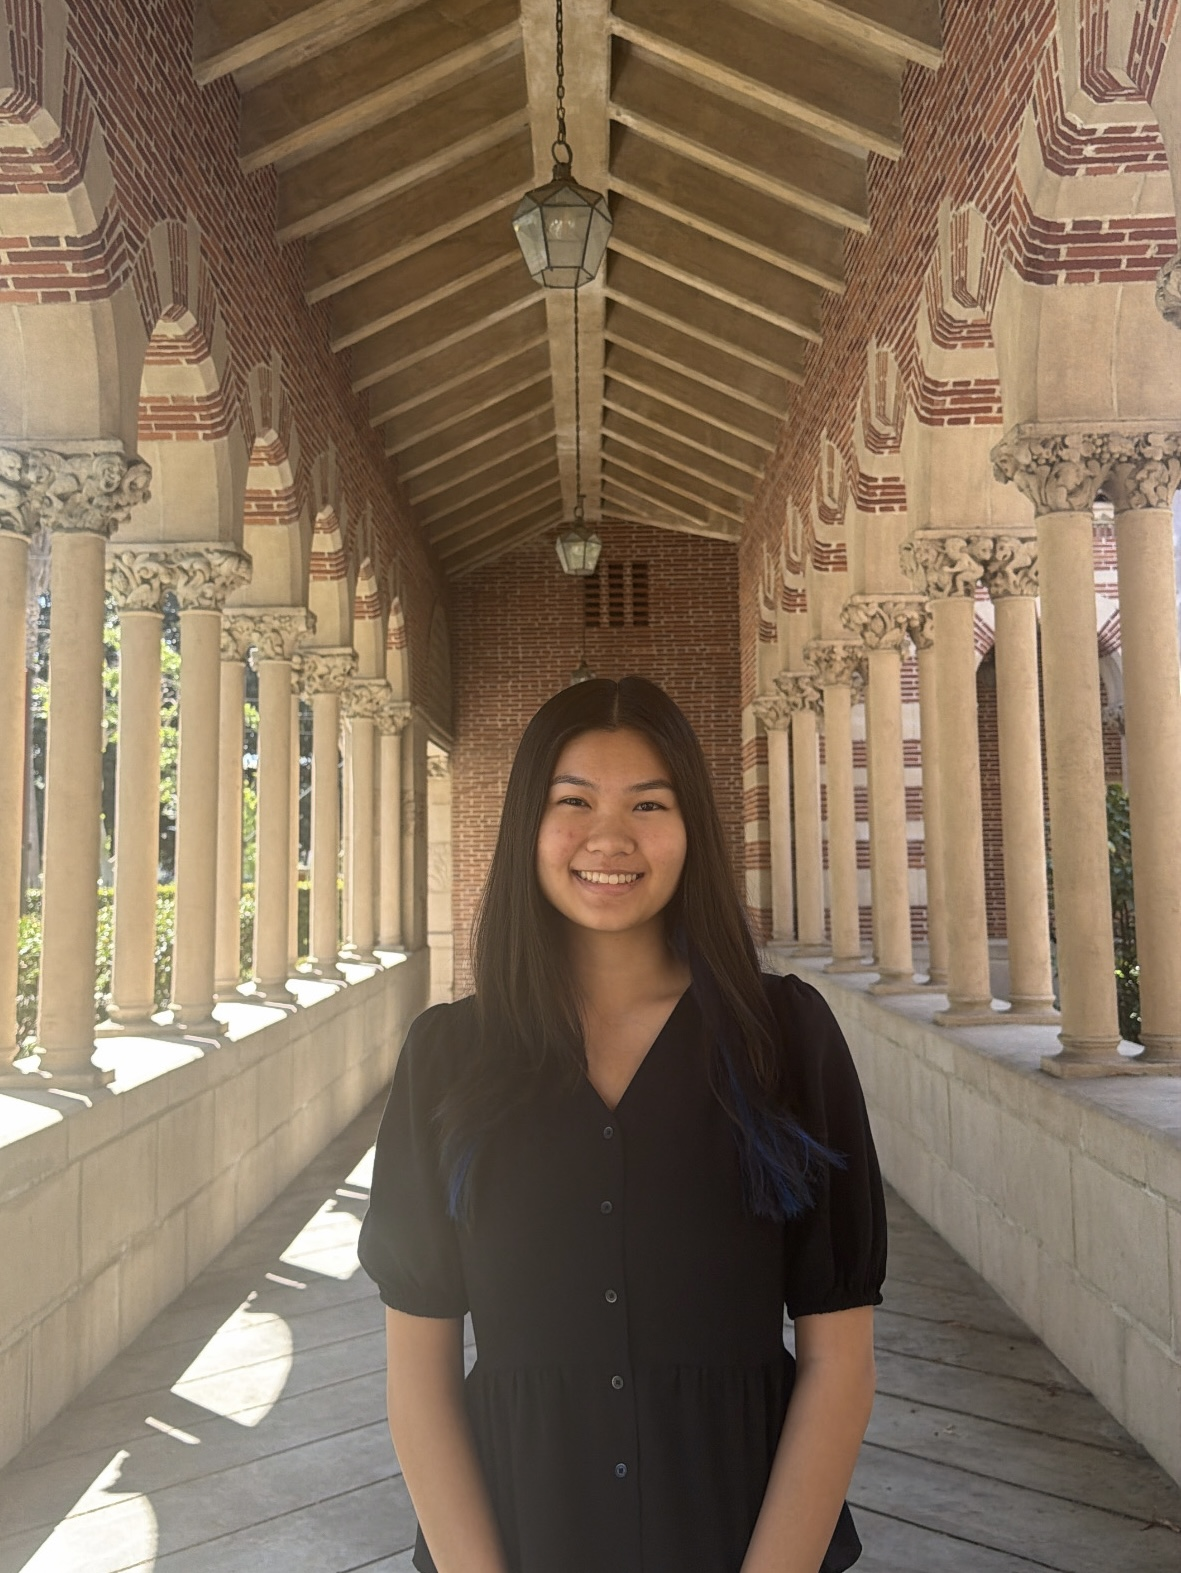
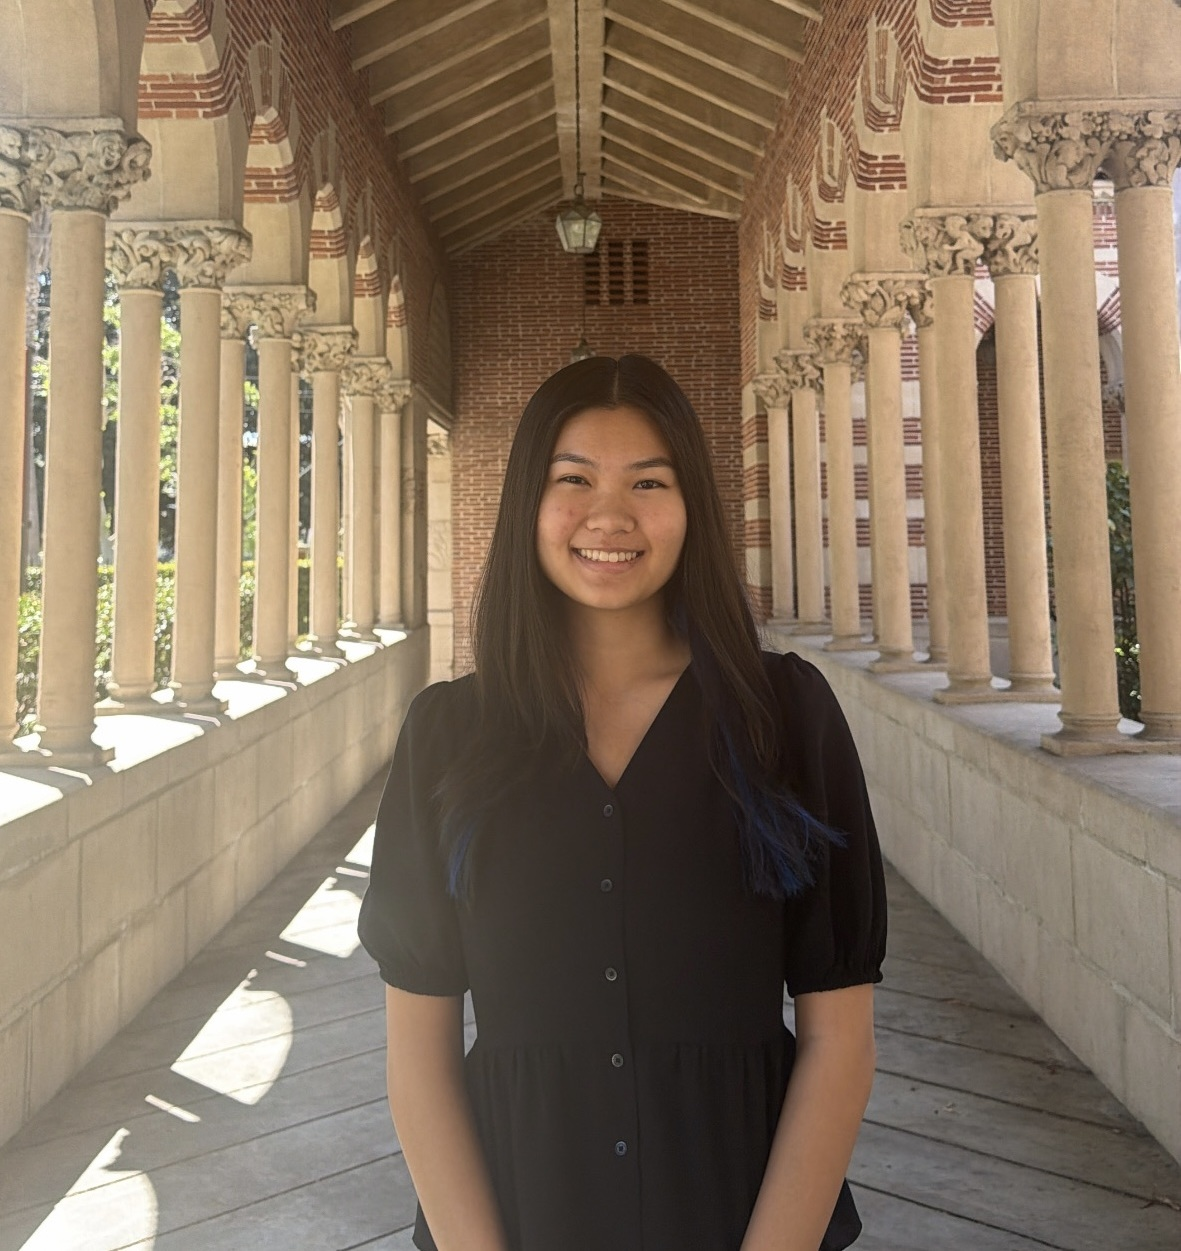
Update team headshots and adjust image styling

diff --git a/css/main.css b/css/main.css
@@ -504,8 +504,10 @@ a {
 }
 
 .person img {
-	height: 200px;
-	width: 200px;
+	height: 180px;
+	width: 180px;
+	object-fit: cover;
+	object-position: center top;
 }
 
 
